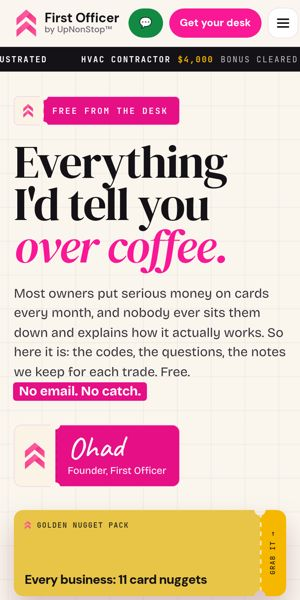
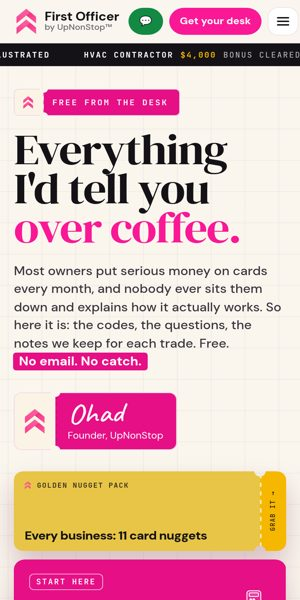
v4: founder title is Founder, UpNonStop (fixed at the freebies builder for every ffd page); 3h headlines upright, no italics; 3h desk body in DM Sans

diff --git a/rebuild-v4/ffd-c-opt-3h.html b/rebuild-v4/ffd-c-opt-3h.html
@@ -184,7 +184,7 @@ html[class*=dir-] main{overflow-x:clip}
 
 html.dir-c{--pk:#FA1896;--pkd:#C80E70;--ink:#141216;--ink2:#1D1A21;--cr:#FBF6EF;--ln:rgba(20,18,22,.12);--mono:'JetBrains Mono',ui-monospace,monospace}
 html.dir-c body{background:var(--cr)}
-html.dir-c .desk{font-family:'Bricolage Grotesque',system-ui,sans-serif;max-width:1320px;padding-top:0;--isr:'DM Serif Display',Georgia,serif}
+html.dir-c .desk{font-family:'DM Sans',system-ui,sans-serif;max-width:1320px;padding-top:0;--isr:'DM Serif Display',Georgia,serif}
 /* ---------- hero */
 html.dir-c .desk .pop-hero{--bb:#FA1896;color:#fff;padding:46px 0 0;position:relative}
 html.dir-c .desk .pop-hero::before{content:"";position:absolute;inset:0 -100vmax;background:
@@ -341,7 +341,7 @@ html.dir-c .desk .endnote{--bb:#141216;padding:64px 0;margin-top:56px;border:0;b
 html.dir-c .desk .endnote p{font:800 40px/1.12 'DM Sans',system-ui,sans-serif;letter-spacing:-.04em;color:#fff;max-width:980px}
 html.dir-c .desk .endnote a{color:#fff;text-decoration:underline;text-decoration-color:#FA1896;text-decoration-thickness:4px;text-underline-offset:6px}
 html.dir-c .desk .endnote .sign{color:#FA1896}
-html.dir-c .rdr-p{font-family:'Bricolage Grotesque',system-ui,sans-serif;border:1px solid #141216;border-radius:20px;box-shadow:0 50px 100px -40px rgba(20,18,22,.7)}
+html.dir-c .rdr-p{font-family:'DM Sans',system-ui,sans-serif;border:1px solid #141216;border-radius:20px;box-shadow:0 50px 100px -40px rgba(20,18,22,.7)}
 html.dir-c .rdr-p h2{font-family:'DM Sans',system-ui,sans-serif!important;font-weight:800!important;letter-spacing:-.04em}
 html.dir-c .rdr-p.gold{background:linear-gradient(170deg,#FFF3C9,#fff 300px);border-color:#C99A00}
 html.dir-c .mpick{background:var(--cr);border-bottom:1px solid #141216}
@@ -754,7 +754,9 @@ html.dir-c.o3h{--isr:'DM Serif Display',Georgia,serif}
 html.dir-c.o3h .desk .pop-hero{--bb:#FAF6EE;color:#141216}
 html.dir-c.o3h .desk .pop-hero::before{background:linear-gradient(rgba(20,18,22,.045) 1px,transparent 1px) 0 0/44px 44px,linear-gradient(90deg,rgba(20,18,22,.045) 1px,transparent 1px) 0 0/44px 44px,#FAF6EE}
 html.dir-c.o3h .desk h1{font-family:'DM Serif Display',Georgia,serif;font-weight:400;color:#141216;text-shadow:none;letter-spacing:-.025em;line-height:.92}
-html.dir-c.o3h .desk h1 em{font-family:'DM Serif Display',Georgia,serif;font-style:italic;color:#FA1896}
+html.dir-c.o3h .desk h1 em{font-family:'DM Serif Display',Georgia,serif;font-style:normal;color:#FA1896}
+/* brand rule: serif headlines, two lines, pink second line, NO italics anywhere (h1, caption, big counts, quotes) */
+html.dir-c.o3h .desk *,html.dir-c.o3h .desk *::before,html.dir-c.o3h .desk *::after,html.dir-c.o3h .rdr-p,html.dir-c.o3h .rdr-p *{font-style:normal!important}
 html.dir-c.o3h .desk .lede{color:#3A343D}
 html.dir-c.o3h .desk .lede .hl{background:#E60F86;color:#fff}
 /* the mark only ever sits on ticket-stock cream: eyebrow stub, signature stub, Checked cell, code tape */
@@ -828,7 +830,7 @@ html.dir-c.o3h .desk .endnote a{text-decoration-color:#fff}
 <div class="eyebrow">Free From the Desk</div>
 <h1>Everything I'd tell you <em>over coffee.</em></h1>
 <p class="lede">Most owners put serious money on cards every month, and nobody ever sits them down and explains how it actually works. So here it is: the codes, the questions, the notes we keep for each trade. Free. <span class="hl">No email. No catch.</span></p>
-<div class="sig"><img class="av mkv" src="img/fo-chevron-transparent.png" alt="" aria-hidden="true"><div><span class="sign">Ohad</span><span class="role">Founder, First Officer</span></div></div>
+<div class="sig"><img class="av mkv" src="img/fo-chevron-transparent.png" alt="" aria-hidden="true"><div><span class="sign">Ohad</span><span class="role">Founder, UpNonStop</span></div></div>
 </div>
 <div class="vault"><a class="feat" href="calculator.html">
 <div class="ft-k">Start here</div>

diff --git a/rebuild-v4/ffd-dir-c.html b/rebuild-v4/ffd-dir-c.html
@@ -436,7 +436,7 @@ html.dir-c .mp-f .mp-sum{font-family:'Bricolage Grotesque',sans-serif;font-weigh
 <div class="eyebrow">Free From the Desk</div>
 <h1>Everything I'd tell you <em>over coffee.</em></h1>
 <p class="lede">Most owners put serious money on cards every month, and nobody ever sits them down and explains how it actually works. So here it is: the codes, the questions, the notes we keep for each trade. Free. <span class="hl">No email. No catch.</span></p>
-<div class="sig"><div class="av" aria-hidden="true">O</div><div><span class="sign">Ohad</span><span class="role">Founder, First Officer</span></div></div>
+<div class="sig"><div class="av" aria-hidden="true">O</div><div><span class="sign">Ohad</span><span class="role">Founder, UpNonStop</span></div></div>
 </div>
 <div class="vault"><div class="seal" aria-hidden="true"><svg viewBox="0 0 120 120"><defs><path id="stc" d="M60,60 m-45,0 a45,45 0 1,1 90,0 a45,45 0 1,1 -90,0"/></defs><circle cx="60" cy="60" r="58" fill="#141216"/><circle cx="60" cy="60" r="54" fill="none" stroke="#FA1896" stroke-width="1.2"/><circle cx="60" cy="60" r="31" fill="none" stroke="#ffffff" stroke-opacity=".25" stroke-width="1"/><text font-family="JetBrains Mono,monospace" font-weight="600" font-size="9.5" letter-spacing="1" fill="#fff"><textPath href="#stc" textLength="280" lengthAdjust="spacing">FREE &#183; NO EMAIL &#183; NO CATCH &#183; FREE &#183; NO EMAIL &#183;</textPath></text><text x="60" y="68" text-anchor="middle" font-family="Instrument Serif,Georgia,serif" font-style="italic" font-size="25" fill="#FA1896">Free</text></svg></div><a class="feat" href="calculator.html">
 <div class="ft-k">Start here</div>

diff --git a/rebuild-v4/ffd-c-opt-1.html b/rebuild-v4/ffd-c-opt-1.html
@@ -498,7 +498,7 @@ html.dir-c.o1 .desk .endnote p{color:#2A1A22}html.dir-c.o1 .desk .endnote a{colo
 <div class="eyebrow">Free From the Desk</div>
 <h1>Everything I'd tell you <em>over coffee.</em></h1>
 <p class="lede">Most owners put serious money on cards every month, and nobody ever sits them down and explains how it actually works. So here it is: the codes, the questions, the notes we keep for each trade. Free. <span class="hl">No email. No catch.</span></p>
-<div class="sig"><img class="av mkv" src="img/fo-chevron-transparent-v2.png" alt="" aria-hidden="true"><div><span class="sign">Ohad</span><span class="role">Founder, First Officer</span></div></div>
+<div class="sig"><img class="av mkv" src="img/fo-chevron-transparent-v2.png" alt="" aria-hidden="true"><div><span class="sign">Ohad</span><span class="role">Founder, UpNonStop</span></div></div>
 </div>
 <div class="vault"><a class="feat" href="calculator.html">
 <div class="ft-k">Start here</div>

diff --git a/rebuild-v4/ffd-c-opt-2.html b/rebuild-v4/ffd-c-opt-2.html
@@ -521,7 +521,7 @@ html.dir-c.o2 .desk .endnote p{color:#1C2A36}html.dir-c.o2 .desk .endnote a{colo
 <div class="eyebrow">Free From the Desk</div>
 <h1>Everything I'd tell you <em>over coffee.</em></h1>
 <p class="lede">Most owners put serious money on cards every month, and nobody ever sits them down and explains how it actually works. So here it is: the codes, the questions, the notes we keep for each trade. Free. <span class="hl">No email. No catch.</span></p>
-<div class="sig"><img class="av mkv" src="img/fo-chevron-transparent-v2.png" alt="" aria-hidden="true"><div><span class="sign">Ohad</span><span class="role">Founder, First Officer</span></div></div>
+<div class="sig"><img class="av mkv" src="img/fo-chevron-transparent-v2.png" alt="" aria-hidden="true"><div><span class="sign">Ohad</span><span class="role">Founder, UpNonStop</span></div></div>
 </div>
 <div class="vault"><a class="feat" href="calculator.html">
 <div class="ft-k">Start here</div>

diff --git a/rebuild-v4/ffd-c-opt-3d.html b/rebuild-v4/ffd-c-opt-3d.html
@@ -737,7 +737,7 @@ html.dir-c.o3d .desk .endnote{background:linear-gradient(90deg,rgba(255,255,255,
 <div class="eyebrow">Free From the Desk</div>
 <h1>Everything I'd tell you <em>over coffee.</em></h1>
 <p class="lede">Most owners put serious money on cards every month, and nobody ever sits them down and explains how it actually works. So here it is: the codes, the questions, the notes we keep for each trade. Free. <span class="hl">No email. No catch.</span></p>
-<div class="sig"><img class="av mkv" src="img/fo-chevron-transparent-v2.png" alt="" aria-hidden="true"><div><span class="sign">Ohad</span><span class="role">Founder, First Officer</span></div></div>
+<div class="sig"><img class="av mkv" src="img/fo-chevron-transparent-v2.png" alt="" aria-hidden="true"><div><span class="sign">Ohad</span><span class="role">Founder, UpNonStop</span></div></div>
 </div>
 <div class="vault"><a class="feat" href="calculator.html">
 <div class="ft-k">Start here</div>

diff --git a/rebuild-v4/ffd-c-opt-3e.html b/rebuild-v4/ffd-c-opt-3e.html
@@ -735,7 +735,7 @@ html.dir-c.o3e .desk .endnote{background:linear-gradient(90deg,rgba(255,255,255,
 <div class="eyebrow">Free From the Desk</div>
 <h1>Everything I'd tell you <em>over coffee.</em></h1>
 <p class="lede">Most owners put serious money on cards every month, and nobody ever sits them down and explains how it actually works. So here it is: the codes, the questions, the notes we keep for each trade. Free. <span class="hl">No email. No catch.</span></p>
-<div class="sig"><img class="av mkv" src="img/fo-chevron-transparent-v2.png" alt="" aria-hidden="true"><div><span class="sign">Ohad</span><span class="role">Founder, First Officer</span></div></div>
+<div class="sig"><img class="av mkv" src="img/fo-chevron-transparent-v2.png" alt="" aria-hidden="true"><div><span class="sign">Ohad</span><span class="role">Founder, UpNonStop</span></div></div>
 </div>
 <div class="vault"><a class="feat" href="calculator.html">
 <div class="ft-k">Start here</div>

diff --git a/rebuild-v4/ffd-c-opt-3f.html b/rebuild-v4/ffd-c-opt-3f.html
@@ -737,7 +737,7 @@ html.dir-c.o3f .desk .endnote{background:linear-gradient(90deg,rgba(255,255,255,
 <div class="eyebrow">Free From the Desk</div>
 <h1>Everything I'd tell you <em>over coffee.</em></h1>
 <p class="lede">Most owners put serious money on cards every month, and nobody ever sits them down and explains how it actually works. So here it is: the codes, the questions, the notes we keep for each trade. Free. <span class="hl">No email. No catch.</span></p>
-<div class="sig"><img class="av mkv" src="img/fo-chevron-transparent-v2.png" alt="" aria-hidden="true"><div><span class="sign">Ohad</span><span class="role">Founder, First Officer</span></div></div>
+<div class="sig"><img class="av mkv" src="img/fo-chevron-transparent-v2.png" alt="" aria-hidden="true"><div><span class="sign">Ohad</span><span class="role">Founder, UpNonStop</span></div></div>
 </div>
 <div class="vault"><a class="feat" href="calculator.html">
 <div class="ft-k">Start here</div>

diff --git a/rebuild-v4/ffd-c-opt-4.html b/rebuild-v4/ffd-c-opt-4.html
@@ -506,7 +506,7 @@ html.dir-c.o4 .desk .endnote p{color:#2A1A2E}html.dir-c.o4 .desk .endnote a{colo
 <div class="eyebrow">Free From the Desk</div>
 <h1>Everything I'd tell you <em>over coffee.</em></h1>
 <p class="lede">Most owners put serious money on cards every month, and nobody ever sits them down and explains how it actually works. So here it is: the codes, the questions, the notes we keep for each trade. Free. <span class="hl">No email. No catch.</span></p>
-<div class="sig"><img class="av mkv" src="img/fo-chevron-transparent-v2.png" alt="" aria-hidden="true"><div><span class="sign">Ohad</span><span class="role">Founder, First Officer</span></div></div>
+<div class="sig"><img class="av mkv" src="img/fo-chevron-transparent-v2.png" alt="" aria-hidden="true"><div><span class="sign">Ohad</span><span class="role">Founder, UpNonStop</span></div></div>
 </div>
 <div class="vault"><a class="feat" href="calculator.html">
 <div class="ft-k">Start here</div>

diff --git a/rebuild-v4/ffd-c-opt-5.html b/rebuild-v4/ffd-c-opt-5.html
@@ -497,7 +497,7 @@ html.dir-c.o5 [data-cat=checklist],html.dir-c.o5 .grp[data-grp=checklist],html.d
 <div class="eyebrow">Free From the Desk</div>
 <h1>Everything I'd tell you <em>over coffee.</em></h1>
 <p class="lede">Most owners put serious money on cards every month, and nobody ever sits them down and explains how it actually works. So here it is: the codes, the questions, the notes we keep for each trade. Free. <span class="hl">No email. No catch.</span></p>
-<div class="sig"><img class="av mkv" src="img/fo-chevron-transparent-v2.png" alt="" aria-hidden="true"><div><span class="sign">Ohad</span><span class="role">Founder, First Officer</span></div></div>
+<div class="sig"><img class="av mkv" src="img/fo-chevron-transparent-v2.png" alt="" aria-hidden="true"><div><span class="sign">Ohad</span><span class="role">Founder, UpNonStop</span></div></div>
 </div>
 <div class="vault"><a class="feat" href="calculator.html">
 <div class="ft-k">Start here</div>

diff --git a/rebuild-v4/ffd-c-opt-3g.html b/rebuild-v4/ffd-c-opt-3g.html
@@ -763,7 +763,7 @@ html.dir-c.o3g .desk .dk.lead:not(.gold) .dk-meta .ic svg circle{fill:transparen
 <div class="eyebrow">Free From the Desk</div>
 <h1>Everything I'd tell you <em>over coffee.</em></h1>
 <p class="lede">Most owners put serious money on cards every month, and nobody ever sits them down and explains how it actually works. So here it is: the codes, the questions, the notes we keep for each trade. Free. <span class="hl">No email. No catch.</span></p>
-<div class="sig"><img class="av mkv" src="img/fo-chevron-transparent.png" alt="" aria-hidden="true"><div><span class="sign">Ohad</span><span class="role">Founder, First Officer</span></div></div>
+<div class="sig"><img class="av mkv" src="img/fo-chevron-transparent.png" alt="" aria-hidden="true"><div><span class="sign">Ohad</span><span class="role">Founder, UpNonStop</span></div></div>
 </div>
 <div class="vault"><a class="feat" href="calculator.html">
 <div class="ft-k">Start here</div>

diff --git a/rebuild-v4/ffd-c-opt-3b.html b/rebuild-v4/ffd-c-opt-3b.html
@@ -600,7 +600,7 @@ html.dir-c.o3b .rdr-p{border-color:rgba(20,18,22,.14);border-radius:16px}
 <div class="eyebrow">Free From the Desk</div>
 <h1>Everything I'd tell you <em>over coffee.</em></h1>
 <p class="lede">Most owners put serious money on cards every month, and nobody ever sits them down and explains how it actually works. So here it is: the codes, the questions, the notes we keep for each trade. Free. <span class="hl">No email. No catch.</span></p>
-<div class="sig"><img class="av mkv" src="img/fo-chevron-transparent-v2.png" alt="" aria-hidden="true"><div><span class="sign">Ohad</span><span class="role">Founder, First Officer</span></div></div>
+<div class="sig"><img class="av mkv" src="img/fo-chevron-transparent-v2.png" alt="" aria-hidden="true"><div><span class="sign">Ohad</span><span class="role">Founder, UpNonStop</span></div></div>
 </div>
 <div class="vault"><a class="feat" href="calculator.html">
 <div class="ft-k">Start here</div>

diff --git a/rebuild-v4/ffd-c-opt-3c.html b/rebuild-v4/ffd-c-opt-3c.html
@@ -696,7 +696,7 @@ html.dir-c.o3c .desk .endnote a{text-decoration-color:#FFB3DA}
 <div class="eyebrow">Free From the Desk</div>
 <h1>Everything I'd tell you <em>over coffee.</em></h1>
 <p class="lede">Most owners put serious money on cards every month, and nobody ever sits them down and explains how it actually works. So here it is: the codes, the questions, the notes we keep for each trade. Free. <span class="hl">No email. No catch.</span></p>
-<div class="sig"><img class="av mkv" src="img/fo-chevron-transparent-v2.png" alt="" aria-hidden="true"><div><span class="sign">Ohad</span><span class="role">Founder, First Officer</span></div></div>
+<div class="sig"><img class="av mkv" src="img/fo-chevron-transparent-v2.png" alt="" aria-hidden="true"><div><span class="sign">Ohad</span><span class="role">Founder, UpNonStop</span></div></div>
 </div>
 <div class="vault"><a class="feat" href="calculator.html">
 <div class="ft-k">Start here</div>
